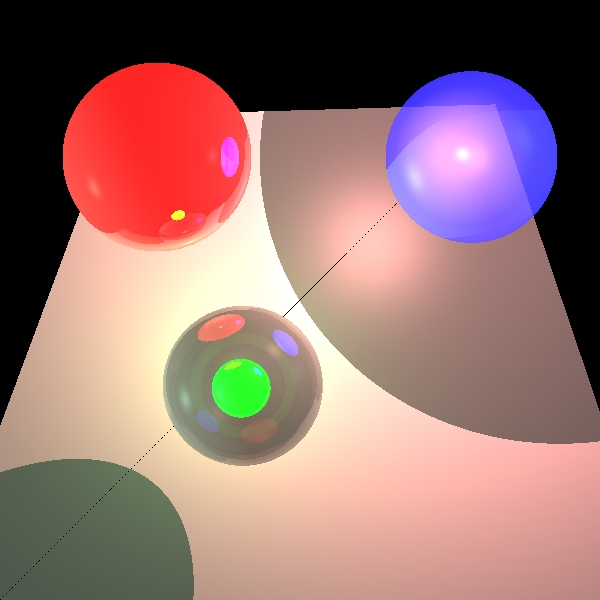
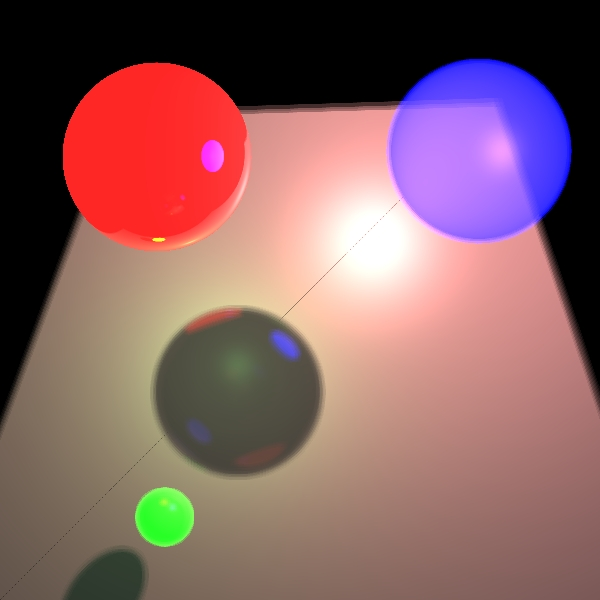
MP1 fin

diff --git a/IME5780-E1-5208-8702/src/elements/Camera.java b/IME5780-E1-5208-8702/src/elements/Camera.java
@@ -18,9 +18,9 @@ public class Camera {
     private Vector vto;
     private Vector vup;
     private Vector vright;
-    private int numOfDOFRays = 1;
-    private double distDOF = 0;
-    private double apertureSize = 0;
+    private int _numOfDOFRays;
+    private double _distDOF;
+    private double _apertureSize;
 
 
     // ****************************** Constructors *****************************//
@@ -33,6 +33,20 @@ public class Camera {
      * @param vup   up vector
      */
     public Camera(Point3D place, Vector vto, Vector vup) {
+        this(place, vto, vup, 1, 0, 0);
+    }
+
+    /**
+     * constructor for camera with params and the params for DOF
+     *
+     * @param place        place of camera
+     * @param vto          forward vector
+     * @param vup          up vector
+     * @param numOfDOFRays num of rays
+     * @param distDOF      distance from camera to focal plane
+     * @param apertureSize size of the aperture
+     */
+    public Camera(Point3D place, Vector vto, Vector vup, int numOfDOFRays, double distDOF, double apertureSize) {
         if (isZero(vto.dotProduct(vup))) {
             this.place = place;
             this.vto = vto.normalized();
@@ -40,6 +54,9 @@ public class Camera {
             vright = new Vector(vto.crossProduct(vup));
         } else
             throw new IllegalArgumentException("Illegal args");
+        _numOfDOFRays = numOfDOFRays;
+        _distDOF = distDOF;
+        _apertureSize = apertureSize;
     }
 
     // ****************************** Getters *****************************//
@@ -81,10 +98,10 @@ public class Camera {
     }
 
     // ****************************** Functions *****************************//
-    //TODO camera constructor
 
     /**
-     * func constructRayThroughPixel
+     * func constructRaysThroughPixel
+     * to create set of rays through pixel (by data and pitagoras)
      *
      * @param nX             pixels on width
      * @param nY             pixels on height
@@ -98,11 +115,10 @@ public class Camera {
     public List<Ray> constructRaysThroughPixel(int nX, int nY, int j, int i,
                                                double screenDistance, double screenWidth, double screenHeight) {
         Ray centerRay = constructRayThroughPixel(nX, nY, j, i, screenDistance, screenWidth, screenHeight);
-        double focalFullDist = Math.sqrt((screenDistance+distDOF)*(screenDistance+distDOF)+apertureSize*apertureSize);
+        double focalFullDist = Math.sqrt((_distDOF) * (_distDOF) + _apertureSize * _apertureSize);
         Point3D focalPoint = centerRay.getPoint(focalFullDist);
-        return centerRay.focalRays(apertureSize, focalPoint, numOfDOFRays, vup, vright);
+        return centerRay.focalRays(_apertureSize, _numOfDOFRays, focalPoint, vup, vright);
     }
-
 
     /**
      * func constructRayThroughPixel

diff --git a/IME5780-E1-5208-8702/src/primitives/Ray.java b/IME5780-E1-5208-8702/src/primitives/Ray.java
@@ -1,5 +1,6 @@
 package primitives;
 
+import java.util.LinkedList;
 import java.util.List;
 
 import static primitives.Util.isZero;
@@ -83,12 +84,37 @@ public class Ray {
         return isZero(length) ? _p0 : _p0.add(_dir.scale(length));
     }
 
-    public List<Ray> focalRays (double apertureSize, Point3D focalPoint, int mumOfDOF, Vector vUp, Vector vRight){
-        //TODO implement
-
-        return null;
+    /**
+     * this func create set of rays
+     *
+     * @param apertureSize aperture Size
+     * @param numOfDOFRays num Of DOF Rays
+     * @param focalPoint focalPoint
+     * @param vUp vec up
+     * @param vRight vec right
+     * @return a list of rays
+     */
+    public List<Ray> focalRays(double apertureSize, int numOfDOFRays, Point3D focalPoint, Vector vUp, Vector vRight) {
+        List<Ray> raysList = new LinkedList<>();
+        raysList.add(this);
+        if (Util.isZero(apertureSize) || numOfDOFRays <= 1)
+            return raysList;
+        int loopLength = (int) Math.sqrt(numOfDOFRays);
+        double factor = apertureSize / loopLength;
+        //first location
+        Point3D p0 = this._p0.add(vUp.scale(-apertureSize / 2)).add(vRight.scale(-apertureSize / 2));
+        for (int i = 1; i <= loopLength; i++) {
+            for (int j = 1; j <= loopLength; j++) {
+                Vector vUpAxis = vUp.scale(i * factor);
+                Vector vRightAxis = vRight.scale(j * factor);
+                Point3D currentPoint = p0.add(vUpAxis).add(vRightAxis);
+                raysList.add(new Ray(currentPoint, focalPoint.subtract(currentPoint)));
+            }
+        }
+        return raysList;
     }
-    // ****************************** Overrides *****************************/
+
+    /****************************** Overrides *****************************/
     @Override
     public boolean equals(Object o) {
         if (this == o) return true;

diff --git a/IME5780-E1-5208-8702/unittests/renderer/ReflectionRefractionTests.java b/IME5780-E1-5208-8702/unittests/renderer/ReflectionRefractionTests.java
@@ -105,12 +105,12 @@ public class ReflectionRefractionTests {
 	}
 
 	/**
-	 * Produce a picture of a two triangles with 4 spheres in varios colors
+	 * Produce a picture of a two triangles with 4 spheres in various colors
 	 */
 	@Test
 	public void OurImage() {
 		Scene scene = new Scene("Test scene");
-		scene.setCamera(new Camera(new Point3D(0, 0, -1000), new Vector(0, 0, 1), new Vector(0, -1, 0)));
+		scene.setCamera(new Camera(new Point3D(0, 0, -1000), new Vector(0, 0, 1), new Vector(0, -1, 0),9,1050,50));
 		scene.setDistance(1000);
 		scene.setBackground(Color.BLACK);
 		scene.setAmbientLight(new AmbientLight(new Color(java.awt.Color.WHITE), 0.15));
@@ -121,18 +121,17 @@ public class ReflectionRefractionTests {
 				new Triangle(Color.BLACK, new Material(0.5, 0.5, 60), //
 						new Point3D(-150, 150, 115), new Point3D(-70, -70, 140), new Point3D(75, -75, 150)), //
 				new Sphere(new Color(java.awt.Color.blue), new Material(0.2, 0.2, 30, 0.6, 0), // )
-						30, new Point3D(60, -50, 50)),
+						30, new Point3D(60, -50, 0)),
 				new Sphere(new Color(java.awt.Color.black), new Material(0.2, 0.2, 60, 0.5, 0.2), // )
-						28, new Point3D(-20, 30, 50)),
+						28, new Point3D(-20, 30, -10)),
 				new Sphere(new Color(java.awt.Color.green), new Material(0.2, 0.2, 20, 0.1, 0.2), // )
-						10, new Point3D(-20, 30, 20)),
+						10, new Point3D(-50, 80, 100)),
 				new Sphere(new Color(java.awt.Color.red), new Material(0.2, 0.2, 90, 0, 0.6), // )
 						33, new Point3D(-50, -50, 50)));
 
 		scene.addLights(
 				new SpotLight(new Color(700, 400, 400), //
 						new Point3D(50, -50, 0), new Vector(0, 0, 1), 1, 4E-5, 2E-7),
-				new PointLight(new Color(127, 255, 212), new Point3D(-400, 120, 50)),
 				new SpotLight(new Color(100, 250, 100),
 						new Point3D(-20, 20, 100), new Vector(-1, 1, 4), 1, 0.00001, 0.000005));
 

diff --git a/IME5780-E1-5208-8702/unittests/elements/CameraTest.java b/IME5780-E1-5208-8702/unittests/elements/CameraTest.java
@@ -2,10 +2,14 @@ package elements;
 
 import static org.junit.Assert.*;
 
+import geometries.Sphere;
 import org.junit.Test;
 
 import elements.Camera;
 import primitives.*;
+import renderer.ImageWriter;
+import renderer.Render;
+import scene.Scene;
 
 /**
  * Testing Camera Class
@@ -52,4 +56,8 @@ public class CameraTest {
         assertEquals("Bad ray", new Ray(Point3D.ZERO, new Vector(-2, 0, 10)),
                 camera.constructRayThroughPixel(3, 3, 0, 1, 10, 6, 6));
     }
+
+
+
+
 }

diff --git a/IME5780-E1-5208-8702/src/elements/PointLight.java b/IME5780-E1-5208-8702/src/elements/PointLight.java
@@ -34,8 +34,12 @@ public class PointLight extends Light implements LightSource {
      *constructor
      * @param intensity intensity  of the light
      * @param position position of the PointLight
+     * @param i
+     * @param v
+     * @param v1
+     * @param i1
      */
-    public PointLight(Color intensity, Point3D position) {
+    public PointLight(Color intensity, Point3D position, int i, double v, double v1, int i1) {
         this(intensity, position , 1d, 0d, 0d);
     }
 
